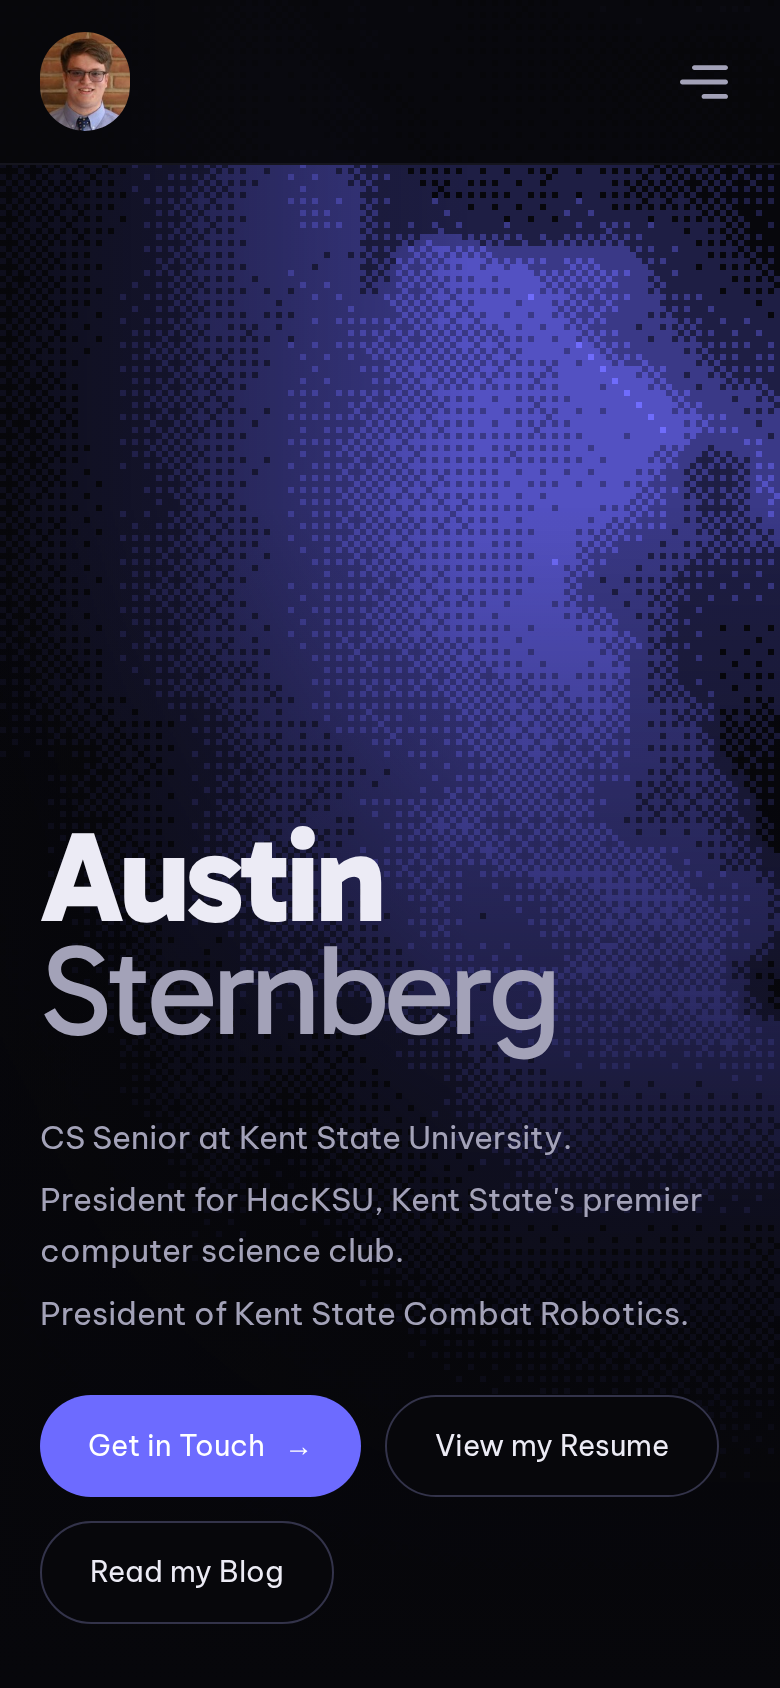
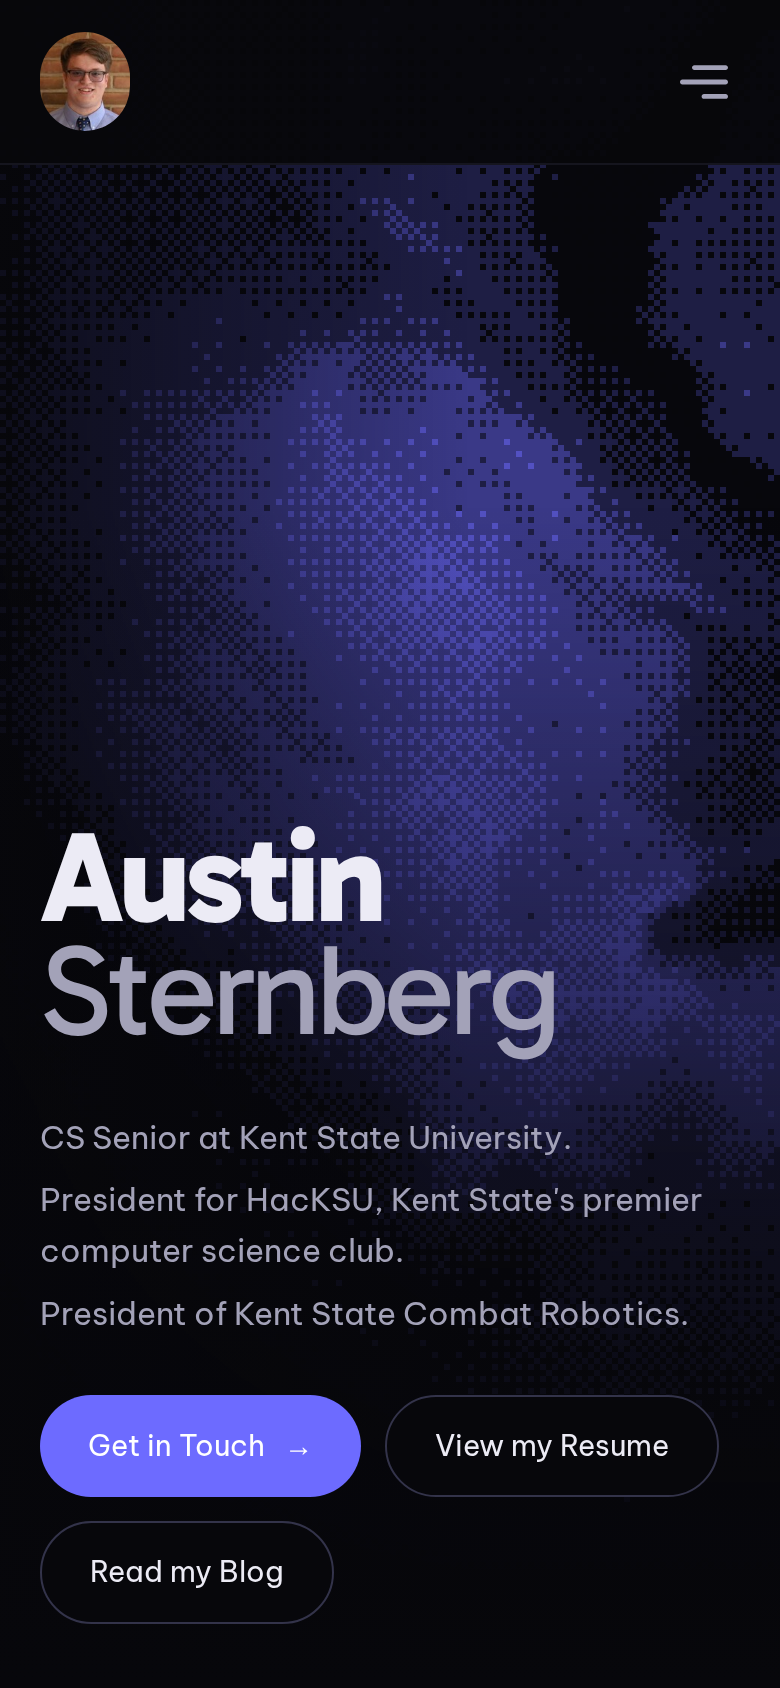
style: cool palette and extend subtle hero motion across site

diff --git a/src/lib/components/NoiseField.svelte b/src/lib/components/NoiseField.svelte
@@ -4,8 +4,9 @@
 
   // A domain-warped noise field, quantized with ordered (Bayer) dithering and rendered at 1/3 resolution
   // so each dither cell reads as a crisp pixel. The cursor pushes the field apart and leaves a faint glow.
-  // Paused whenever the hero is offscreen or the tab is hidden; reduced motion gets one still frame.
+  // Quiet mode shares the hero texture at lower resolution and speed, without pointer distortion.
 
+  let { quiet = false }: { quiet?: boolean } = $props();
   let canvas: HTMLCanvasElement;
   let failed = $state(false);
 
@@ -135,7 +136,7 @@ void main() {
       uBg = u("u_bg");
 
     const reduced = matchMedia("(prefers-reduced-motion: reduce)").matches;
-    const PIXEL = 3; // CSS pixels per dither cell
+    const PIXEL = quiet ? 5 : 3; // CSS pixels per dither cell
     let width = 1,
       height = 1;
     const mouse = { x: 0.7, y: 0.6, tx: 0.7, ty: 0.6, hover: 0, thover: 0 };
@@ -156,9 +157,9 @@ void main() {
       mouse.x += (mouse.tx - mouse.x) * 0.06;
       mouse.y += (mouse.ty - mouse.y) * 0.06;
       mouse.hover += (mouse.thover - mouse.hover) * 0.04;
-      const p = palette ?? { a: [0.43, 0.42, 1], b: [1, 0.7, 0.54], bg: [0.03, 0.03, 0.04] };
+      const p = palette ?? { a: [0.43, 0.42, 1], b: [0.65, 0.71, 1], bg: [0.03, 0.03, 0.04] };
       gl.uniform2f(uRes, width, height);
-      gl.uniform1f(uTime, reduced ? 12 : (now - start) / 1000);
+      gl.uniform1f(uTime, reduced ? 12 : ((now - start) / 1000) * (quiet ? 0.2 : 1));
       gl.uniform2f(uMouse, mouse.x * width, (1 - mouse.y) * height);
       gl.uniform1f(uHover, mouse.hover);
       gl.uniform3fv(uA, p.a);
@@ -167,10 +168,14 @@ void main() {
       gl.drawArrays(gl.TRIANGLES, 0, 3);
     };
 
+    let lastDraw = 0;
     const loop = (now: number) => {
       frame = 0;
       if (!visible || document.hidden) return;
-      draw(now);
+      if (!quiet || now - lastDraw >= 50) {
+        draw(now);
+        lastDraw = now;
+      }
       frame = requestAnimationFrame(loop);
     };
     const play = () => {
@@ -193,7 +198,7 @@ void main() {
     });
     io.observe(canvas);
     document.addEventListener("visibilitychange", play);
-    if (!reduced) {
+    if (!reduced && !quiet) {
       window.addEventListener("pointermove", onMove, { passive: true });
       document.documentElement.addEventListener("pointerleave", onLeave);
     }

diff --git a/src/lib/config.ts b/src/lib/config.ts
@@ -559,17 +559,7 @@ export const SITE_CONTENT: SiteContent = {
     },
   ],
   about: {
-    description: `
-      Hi, I'm Austin Sternberg 👋. I'm a Computer Science senior at Kent State with a passion for cybersecurity and networking.
-
-      This past summer I interned at Awetomaton, a small but growing defense contractor based in Beavercreek, Ohio, where I built internal tools for the IT department to help streamline operations.
-
-      On campus, I serve as President of HacKSU, Kent State's computer science club, and as President of Kent State's Combat Robotics club.
-
-      Outside of class, I spend my time on personal projects, hackathons, and CTFs. Recently I placed first at Hack Dearborn 4 and the Quantum CTF at BSidesCLE 2026, and won two tracks at NexHacks 2026. The python INFOSEC repository is still a personal favorite of mine.
-
-      I'm always working on something or learning new skills. Feel free to reach out if you'd like to connect!
-    `,
+    description: "I'm drawn to cybersecurity and networking: understanding how systems work, finding weak spots, and making them stronger. I build tools, compete in CTFs, and turn hackathon ideas into working projects.",
     image: "/austin-big.JPG",
   },
   // Security work first, then networking/protocols, hardware, and apps handling sensitive data; plain web builds last.
@@ -755,15 +745,7 @@ export const SITE_CONTENT: SiteContent = {
     ],
   },
   hackerAbout: {
-    description: `
-      Hello, friend. Online I go by yoyojesus.
-
-      I got into security because every system has an edge case someone forgot about, and finding it is the best kind of puzzle. Networks, web apps, and CTF challenges are where I spend most of that curiosity.
-
-      Most of my free time goes to capture-the-flag competitions and to writing my own tooling for recon and automation. The python INFOSEC repository is a personal favorite.
-
-      If you're building something and want a second pair of eyes on how it might break, feel free to reach out.
-    `,
+    description: "I go by yoyojesus. I explore networks, web apps, and the edge cases people miss. Most of my spare time goes to CTFs and building tools for recon and automation.",
   },
 };
 

diff --git a/src/lib/components/About.svelte b/src/lib/components/About.svelte
@@ -12,26 +12,27 @@
 </script>
 
 <Section text={hacker.on ? "$ whoami" : "About Me"} href="about">
-  <div class="flex flex-col items-center gap-12 md:flex-row md:gap-8">
-    <p class="w-auto text-base text-neutral md:pr-5">{hacker.on ? hackerDescription : description}</p>
-    <div
-      class={[
-        "w-64 shrink-0 rounded-2xl border border-edge p-3",
-        hacker.on ? "border border-primary/60 bg-surface" : "bg-surface",
-      ]}
-    >
+  <div class="about-layout">
+    <p class="about-copy">{hacker.on ? hackerDescription : description}</p>
+    <figure class="portrait">
       <img
-        class="rounded-xl object-cover"
         src={hacker.on ? HACKER_AVATAR : image}
         width="260"
-        height="260"
+        height="320"
         alt={hacker.on ? HACKER_ALIAS : name}
         loading="lazy"
         decoding="async"
       />
-      {#if hacker.on}
-        <p class="mt-4 text-sm text-primary">&gt; {HACKER_ALIAS}<span class="animate-pulse">_</span></p>
-      {/if}
-    </div>
+      {#if hacker.on}<figcaption>&gt; {HACKER_ALIAS}</figcaption>{/if}
+    </figure>
   </div>
 </Section>
+
+<style>
+  .about-layout { display: grid; align-items: center; gap: 2rem; }
+  .about-copy { max-width: 42ch; font-size: clamp(1.125rem, 2vw, 1.35rem); line-height: 1.7; color: var(--color-neutral); }
+  .portrait { width: min(100%, 16rem); overflow: hidden; border-radius: 0.75rem; }
+  .portrait img { display: block; width: 100%; aspect-ratio: 4 / 5; height: auto; object-fit: cover; object-position: center 30%; }
+  figcaption { padding-top: 0.75rem; color: var(--color-volt-soft); font-size: 0.875rem; }
+  @media (min-width: 640px) { .about-layout { grid-template-columns: minmax(0, 1fr) 14rem; gap: 3rem; } }
+</style>

diff --git a/src/app.css b/src/app.css
@@ -8,7 +8,7 @@
   --color-neutral: #a3a2b8;
   --color-white: #ecebf5;
   --color-black: #07070b;
-  --color-accent: #ffb38a;
+  --color-accent: #a5b4ff;
   --color-muted: #6e6d85;
   --color-surface: #0f0f16;
   --color-surface-raised: #16161f;
@@ -167,7 +167,7 @@ html.hacker .glitch::after {
   --font-display: var(--font-serif);
   --ease-out-expo: cubic-bezier(0.16, 1, 0.3, 1);
   --rgb-volt: 109 107 255;
-  --rgb-ember: 255 179 138;
+  --rgb-ember: 165 180 255;
   --rgb-ink: 7 7 11;
 }
 html { background: var(--color-black); scroll-padding-top: 6rem; }
@@ -186,8 +186,11 @@ a { text-underline-offset: 0.2em; }
 .btn-primary:hover { background: var(--color-volt-soft); color: var(--color-black); }
 .btn-ghost { border: 1px solid var(--color-edge-strong); background: var(--color-black); color: var(--color-white); }
 .btn-ghost:hover { border-color: var(--color-volt-soft); color: var(--color-volt-soft); }
-html.hacker { --rgb-volt: 224 17 27; --rgb-ember: 255 90 90; --rgb-ink: 5 5 5; --color-volt-soft: #ff7474; }
+html.hacker { --rgb-volt: 224 17 27; --rgb-ember: 255 90 90; --rgb-ink: 5 5 5; --color-volt-soft: #ff4d4d; }
 @media (prefers-reduced-motion: reduce) {
   html { scroll-behavior: auto; }
   *, *::before, *::after { animation-duration: 0.001ms !important; animation-iteration-count: 1 !important; transition-duration: 0.001ms !important; scroll-behavior: auto !important; }
 }
+
+.ambient-field { position: fixed; inset: 0; z-index: 0; pointer-events: none; opacity: 0.14; }
+main, footer { position: relative; }

diff --git a/src/routes/+layout.svelte b/src/routes/+layout.svelte
@@ -3,6 +3,7 @@
   import "@fontsource-variable/gabarito";
   import "../app.css";
   import { SITE_CONFIG } from "$lib/config";
+  import NoiseField from "$lib/components/NoiseField.svelte";
   import Header from "$lib/components/Header.svelte";
   import Footer from "$lib/components/Footer.svelte";
   import HackerMode from "$lib/components/HackerMode.svelte";
@@ -30,6 +31,7 @@
   <meta property="twitter:image" content={ogImgUrl} />
 </svelte:head>
 
+<div class="ambient-field" aria-hidden="true"><NoiseField quiet /></div>
 <Header {siteLogo} {navLinks} />
 <main>
   {@render children()}
